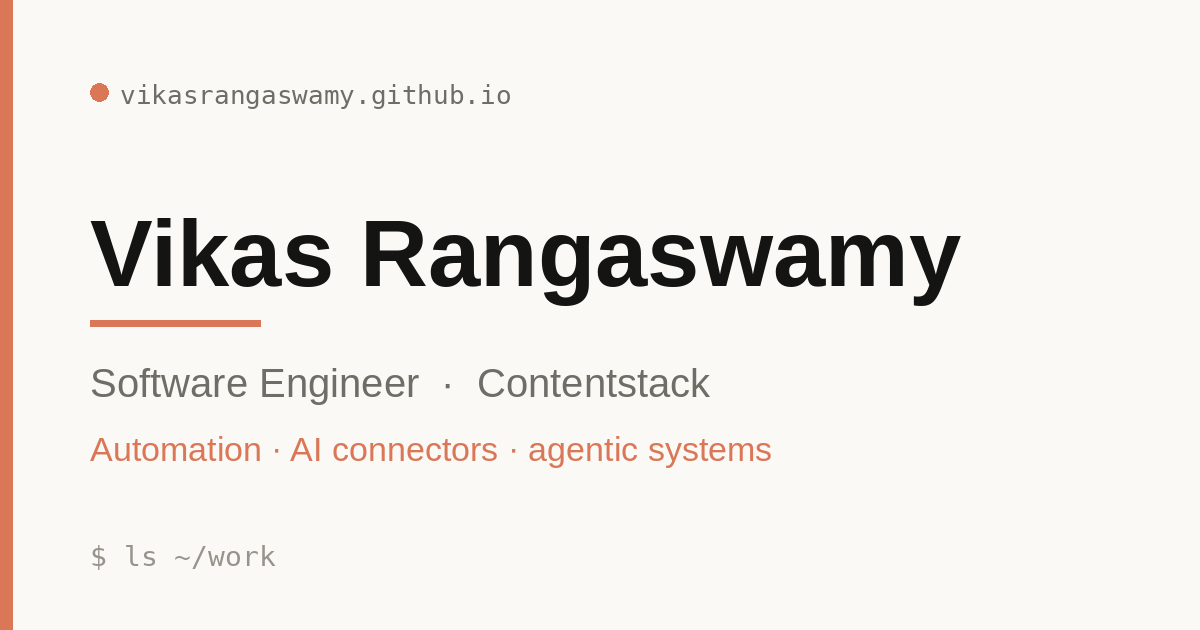
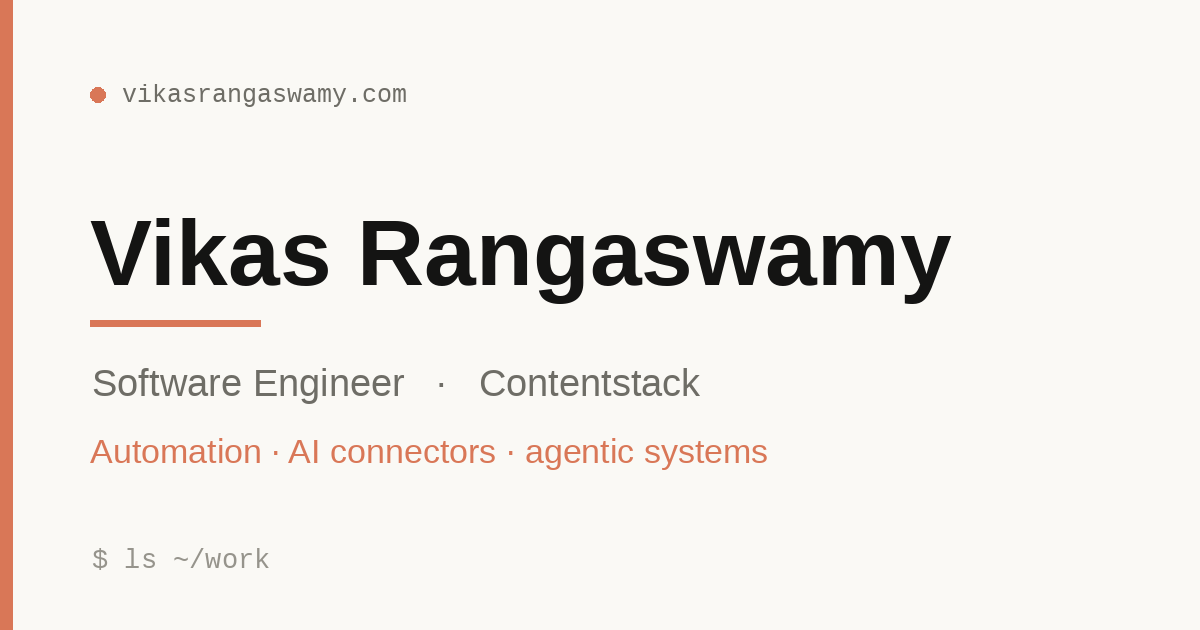
Assistant offline state; colophon + SEO + misc polish

diff --git a/src/lib/useSeo.ts b/src/lib/useSeo.ts
@@ -1,11 +1,15 @@
 import { useEffect } from 'react'
+import { useLocation } from 'react-router-dom'
 import { site } from '../site.config'
 
 /**
- * Per-route document title + meta description for this SPA. React Router swaps
- * pages without a full document load, so the static <title>/description in
- * index.html would otherwise stick for the whole session. Each page calls this
- * to keep the tab title, search snippet, and share-card text accurate.
+ * Per-route document title + meta description + canonical URL for this SPA.
+ * React Router swaps pages without a full document load, so the static
+ * <title>/description/canonical in index.html would otherwise stick for the
+ * whole session — leaving every subpage claiming (via canonical + og:url) to be
+ * the homepage, which tells search engines they're duplicates. Each page calls
+ * this to keep the tab title, search snippet, share-card text, AND the
+ * canonical/og:url accurate for the current route.
  *
  * Pass nothing for the home page to restore the site defaults.
  */
@@ -18,15 +22,57 @@ function setMeta(selector: string, content: string) {
   if (el) el.setAttribute('content', content)
 }
 
-export function useSeo(title?: string, description?: string) {
+function setCanonical(url: string) {
+  let el = document.head.querySelector<HTMLLinkElement>('link[rel="canonical"]')
+  if (!el) {
+    el = document.createElement('link')
+    el.setAttribute('rel', 'canonical')
+    document.head.appendChild(el)
+  }
+  el.setAttribute('href', url)
+}
+
+/** Add or remove a <meta name="robots" content="noindex"> tag. */
+function setNoindex(on: boolean) {
+  const existing = document.head.querySelector<HTMLMetaElement>('meta[name="robots"]')
+  if (on) {
+    if (existing) existing.setAttribute('content', 'noindex')
+    else {
+      const el = document.createElement('meta')
+      el.setAttribute('name', 'robots')
+      el.setAttribute('content', 'noindex')
+      document.head.appendChild(el)
+    }
+  } else if (existing) {
+    existing.remove()
+  }
+}
+
+export function useSeo(title?: string, description?: string, noindex = false) {
+  const { pathname } = useLocation()
+
   useEffect(() => {
     const fullTitle = title ? `${title} · ${SITE}` : DEFAULT_TITLE
     const desc = description?.trim() || DEFAULT_DESCRIPTION
+
+    // Canonical/og:url for THIS route. Normalize trailing slashes (except root)
+    // so /about and /about/ don't split into two canonicals. Always built from
+    // the production origin in site.config, never the current host, so preview
+    // deploys (*.pages.dev) still point canonical at the real domain.
+    const path = pathname.replace(/\/+$/, '') || '/'
+    const canonical = path === '/' ? `${site.url}/` : `${site.url}${path}`
+
     document.title = fullTitle
     setMeta('meta[name="description"]', desc)
     setMeta('meta[property="og:title"]', fullTitle)
     setMeta('meta[property="og:description"]', desc)
     setMeta('meta[name="twitter:title"]', fullTitle)
     setMeta('meta[name="twitter:description"]', desc)
-  }, [title, description])
+    setMeta('meta[property="og:url"]', canonical)
+    setCanonical(canonical)
+    // The 404 route is a soft-404 (SPA always returns HTTP 200), so tell
+    // crawlers not to index arbitrary junk URLs. Cleared when leaving the route.
+    setNoindex(noindex)
+    return () => setNoindex(false)
+  }, [title, description, pathname, noindex])
 }

diff --git a/vite.config.ts b/vite.config.ts
@@ -13,14 +13,21 @@ import { profile } from './src/content/profile'
  * src/site.config.ts, so the domain/title/routes live in exactly one place.
  */
 function portfolioSeo(): Plugin {
-  const sitemap = () =>
-    `<?xml version="1.0" encoding="UTF-8"?>\n` +
-    `<urlset xmlns="http://www.sitemaps.org/schemas/sitemap/0.9">\n` +
-    ROUTES.map((r) => {
-      const loc = r.path === '/' ? `${site.url}/` : `${site.url}${r.path}`
-      return `  <url>\n    <loc>${loc}</loc>\n    <changefreq>${r.changefreq}</changefreq>\n    <priority>${r.priority.toFixed(1)}</priority>\n  </url>`
-    }).join('\n') +
-    `\n</urlset>\n`
+  const sitemap = () => {
+    // Stamp every URL with the build date so crawlers see a real <lastmod>.
+    // The site is rebuilt on each content push (Cloudflare Pages), so the build
+    // date is an honest "last changed" signal.
+    const lastmod = new Date().toISOString().slice(0, 10) // YYYY-MM-DD
+    return (
+      `<?xml version="1.0" encoding="UTF-8"?>\n` +
+      `<urlset xmlns="http://www.sitemaps.org/schemas/sitemap/0.9">\n` +
+      ROUTES.map((r) => {
+        const loc = r.path === '/' ? `${site.url}/` : `${site.url}${r.path}`
+        return `  <url>\n    <loc>${loc}</loc>\n    <lastmod>${lastmod}</lastmod>\n    <changefreq>${r.changefreq}</changefreq>\n    <priority>${r.priority.toFixed(1)}</priority>\n  </url>`
+      }).join('\n') +
+      `\n</urlset>\n`
+    )
+  }
 
   // Search engines and AI answer engines both welcome — explicit Allow for the
   // major AI crawlers so none are accidentally excluded.

diff --git a/src/components/home/HeroTerminal.tsx b/src/components/home/HeroTerminal.tsx
@@ -10,6 +10,12 @@ import styles from './HeroTerminal.module.css'
 export function HeroTerminal() {
   const chat = useAsk()
 
+  // Reflect real health: if the most recent assistant turn is an error, the
+  // backend isn't answering — show an honest "offline" badge instead of a lit
+  // "live" one. (While a request is in flight we keep "live".)
+  const lastAssistant = [...chat.turns].reverse().find((t) => t.role === 'assistant')
+  const offline = !chat.busy && !!lastAssistant?.error
+
   return (
     <div className={styles.window}>
       <div className={styles.titlebar}>
@@ -17,9 +23,12 @@ export function HeroTerminal() {
         <span className={styles.dot} data-c="amber" />
         <span className={styles.dot} data-c="green" />
         <span className={styles.title}>ask · vikas's assistant</span>
-        <span className={styles.live}>
-          <span className={styles.liveDot} aria-hidden="true" />
-          live
+        <span className={`${styles.live} ${offline ? styles.offline : ''}`}>
+          <span
+            className={offline ? styles.offlineDot : styles.liveDot}
+            aria-hidden="true"
+          />
+          {offline ? 'offline' : 'live'}
         </span>
       </div>
 

diff --git a/src/lib/useAsk.ts b/src/lib/useAsk.ts
@@ -1,5 +1,11 @@
 import { useCallback, useRef, useState } from 'react'
+import { profile } from '../content/profile'
 import { ASK_ENDPOINT } from './askConfig'
+
+// Honest fallback when the backend can't answer — points to a real contact so
+// the visitor (often a recruiter) isn't left at a dead end. The email is
+// auto-linkified by AskConversation.
+const OFFLINE_MSG = `The assistant is resting right now — reach Vikas directly at ${profile.email}.`
 
 export type Turn = { role: 'user' | 'assistant'; text: string; error?: boolean }
 
@@ -64,7 +70,7 @@ export function useAsk() {
         })
 
         if (!res.ok) {
-          let msg = 'The assistant had trouble — try again.'
+          let msg = OFFLINE_MSG
           if (res.status === 429) {
             const data = (await res.json().catch(() => null)) as { message?: string } | null
             msg = data?.message ?? 'The assistant is busy right now — please try again in a moment.'
@@ -73,7 +79,7 @@ export function useAsk() {
           return
         }
         if (!res.body) {
-          failLast('No response from the assistant.')
+          failLast(OFFLINE_MSG)
           return
         }
 

diff --git a/src/components/layout/PageHeader.tsx b/src/components/layout/PageHeader.tsx
@@ -13,13 +13,15 @@ type Props = {
   noDivider?: boolean
   /** Overrides the SEO/tab title segment (defaults to `tag`). */
   seoTitle?: string
+  /** Emit <meta robots noindex> for this route (e.g. the soft-404 page). */
+  noindex?: boolean
 }
 
-export function PageHeader({ tag, title, summary, back, noDivider, seoTitle }: Props) {
+export function PageHeader({ tag, title, summary, back, noDivider, seoTitle, noindex }: Props) {
   // The kicker (`tag`) is the clean page name ("About", "Projects") — better as
   // the tab title than the big visual heading (sometimes the person's name).
   // Callers can override via `seoTitle`.
-  useSeo(seoTitle ?? tag, summary)
+  useSeo(seoTitle ?? tag, summary, noindex)
 
   return (
     <header>

diff --git a/src/components/home/HeroTerminal.module.css b/src/components/home/HeroTerminal.module.css
@@ -80,6 +80,19 @@
   animation: pulse 2.4s ease-out infinite;
 }
 
+/* When the last answer failed, the assistant isn't "live" — drop the clay glow
+   to a muted, static dot and relabel, so a failure never looks healthy. */
+.offline {
+  color: var(--console-muted);
+}
+.offlineDot {
+  width: 6px;
+  height: 6px;
+  border-radius: 50%;
+  background: var(--console-muted);
+  animation: none;
+}
+
 @keyframes pulse {
   0% {
     box-shadow: 0 0 0 0 color-mix(in srgb, var(--clay) 45%, transparent);

diff --git a/src/routes/NotFound.tsx b/src/routes/NotFound.tsx
@@ -5,7 +5,7 @@ import styles from './Page.module.css'
 export default function NotFound() {
   return (
     <div className={styles.container}>
-      <PageHeader tag="404" title="Page not found" seoTitle="Page not found" noDivider />
+      <PageHeader tag="404" title="Page not found" seoTitle="Page not found" noDivider noindex />
       <p className={styles.summary}>
         That route doesn't exist (yet). Head back to the{' '}
         <Link to="/" style={{ color: 'var(--clay)' }}>

diff --git a/src/routes/Experience.module.css b/src/routes/Experience.module.css
@@ -51,6 +51,9 @@
   font-size: 12.5px;
   color: var(--gray-500);
   font-variant-numeric: tabular-nums;
+  /* Match the role-range dates below — lowercase terminal aesthetic, applied
+     uniformly so the company span and role ranges read consistently. */
+  text-transform: lowercase;
 }
 
 .roleList {
